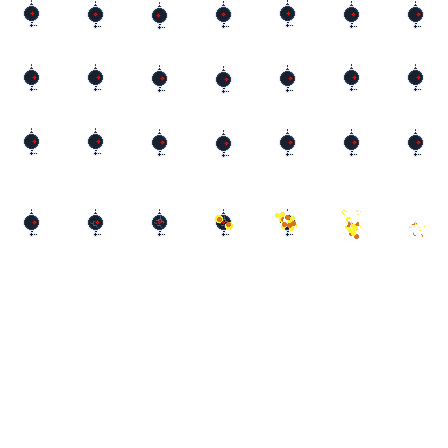
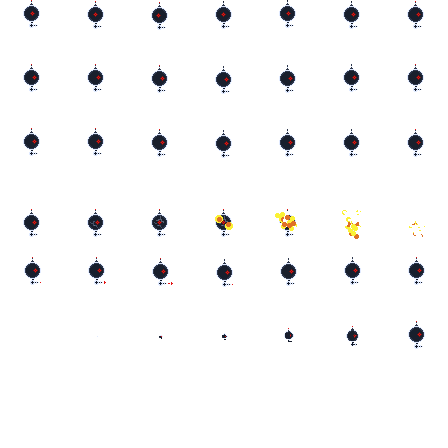
spawnRobot

diff --git a/main.cpp b/main.cpp
@@ -50,6 +50,7 @@ bool fullscreen = false;
 bool move_ufo = false;
 bool canMoveUfo = true;
 bool firstHobo = true;
+bool can_spawn_robots = true;
 bool firstBlood = false;
 bool drawShovel = false;
 bool drawMac10 = true;
@@ -600,6 +601,8 @@ void UpdatePasswordInterface() {
             
         } else {
             enteredPassword = ""; // Reset on incorrect password
+            robots[0].idleTime = 0;
+            //play a sound
         }
     }
 }
@@ -853,6 +856,15 @@ void StartZombieSpawn(int zombie_count){
     nextSpawnDelay = 1.0f + static_cast<float>(rand()) / (static_cast<float>(RAND_MAX / 3.0f));  // Random delay between 1-4 seconds
     //film = true;
     glitch = true; //Activate glitch shader to make things more dramatic
+}
+
+void spawnRobot(GameResources& resources, Player& player, Vector2 position){
+    int speed = 50;
+    NPC robot_npc = CreateNPC(resources.robotSheet, position, speed, RISING, true, false);
+    robot_npc.robot = true;
+    robot_npc.agro = true;
+    robot_npc.SetDestination(player.position.x, player.position.x + 100);
+    robots.push_back(robot_npc);
 }
 
 void spawnZombiePark(GameResources& resources, Vector2 position){
@@ -1752,7 +1764,7 @@ void RenderInventory(const GameResources& resources, std::string inventory[], in
                 if (CheckCollisionPointRec(mousePosition, whiskeyBounds)){
                     if (IsMouseButtonPressed(MOUSE_BUTTON_LEFT)){
                         if (player.hasWhiskey){
-                            inventory[i] = std::string("");  // erase pills from the string
+                            inventory[i] = std::string("");  // erase whiskey from the string
                             player.currentHealth = player.maxHealth;
                             player.hasWhiskey = false;
                             drunk = true;
@@ -1799,7 +1811,7 @@ void RenderInventory(const GameResources& resources, std::string inventory[], in
                 if (CheckCollisionPointRec(mousePosition, shovelBounds)){ //dig
                     
                     if (IsMouseButtonPressed(MOUSE_BUTTON_LEFT)){
-                        Dig(player);
+                        Dig(player); //click shovel icon to dig
                      
                     }
                 }
@@ -1897,6 +1909,7 @@ void MoveTraffic(GameResources resources){
 }
 
 void DrawApartmentUI(GameResources& resources, GameCalendar&, Vector2& mousePosition, Camera2D& camera){
+    //laptop computer interface
     Vector2 ui_pos = {screenWidth/2-100, 440};
     DrawTexture(resources.ComputerScreen, ui_pos.x, ui_pos.y, WHITE);
     Color tint = WHITE;
@@ -3693,9 +3706,10 @@ void RenderNecroTech(GameResources resources, Camera2D camera, Player& player, P
             show_dbox = true;
             dboxPosition = robot.position;
             showPasswordInterface = true;
-
-
-
+        }
+        if (robot.trigger and can_spawn_robots){ //robot rising animation looks dumb and it makes it too hard. save for future use though.
+            can_spawn_robots = false;
+            //spawnRobot(resources,player, robot.position + Vector2 {-100, 0});
         }
     }
 
@@ -3741,7 +3755,7 @@ void RenderNecroTech(GameResources resources, Camera2D camera, Player& player, P
         RenderPasswordInterface();
 
     }else if (passwordValidated && showPasswordInterface && passwordTimer > 0){
-        RenderPasswordInterface();
+        RenderPasswordInterface(); //show interface for a few seconds before not rendering it. 
     }else{
         //don't render nothin
     }

diff --git a/NPC.cpp b/NPC.cpp
@@ -67,6 +67,7 @@ NPC::NPC(Texture2D npcTexture, Vector2 startPos, float npcSpeed, AnimationState 
     can_shoot = true;
     shootTimer = 0.0f;
     validPassword = false;
+    trigger = false;
  
 }
 
@@ -132,7 +133,6 @@ void NPC::HandleNPCInteraction(Player& player, GameState& gameState){ //Click or
             if (interactions == 0 && !validPassword){ //an interaction is a series of sentences said by the NPC, once all the dialog is displayed we increment interactions
             //then wait to trigger the next set of dialogs. 
 
-
                 clickCount += 1;
                 switch (clickCount){
                     case 1:
@@ -150,7 +150,7 @@ void NPC::HandleNPCInteraction(Player& player, GameState& gameState){ //Click or
                             speech = "Terminate Intruder";
                             agro = true;
                             idleTime = 2;
-                            
+                            trigger = true;
                             facingRight = (player.position.x > position.x); //turn toward player
                             break;
 
@@ -488,12 +488,13 @@ void NPC::HandleRobot(Player& player, float& distanceToPlayer){
 
     }
 
-    if (distanceToPlayer < 150 && agro){
+    if (distanceToPlayer < 100 && agro){
         destination = position;
         //shoot
         if (can_shoot && !isDying){
             SoundManager::getInstance().PlayPositionalSound("laser", position, player.position, 500);
             can_shoot = false;
+            SetAnimationState(ATTACKING);
             NPCfireBullet(*this, false, 10, true);
             shootTimer = 1.0f;
 
@@ -605,7 +606,7 @@ void NPC::HandleAnimationLogic(){
 
 void NPC::Update(Player& player, GameState& gameState) {
     if (!isActive) return;  // Skip update if the NPC is not active
-    if (!isZombie) riseTimer = 0;
+    if (!isZombie && !robot) riseTimer = 0;
     float distance_to_player = abs(player.position.x - position.x);
 
     if (distance_to_player >= 30){
@@ -632,9 +633,9 @@ void NPC::Update(Player& player, GameState& gameState) {
             currentFrame++;
 
             // 7 frames in the RISING animation
-            if (currentFrame >= 7) {
-                currentFrame = 0;  // Loop back to the first frame of the rising animation
-            }
+            // if (currentFrame >= 7) {
+            //     currentFrame = 0;  // Loop back to the first frame of the rising animation
+            // } //rising doesn't loop
         }
 
         return;  // Skip further logic until the zombie finishes rising

diff --git a/Player.cpp b/Player.cpp
@@ -795,8 +795,9 @@ void Player::DrawPlayer(const GameResources& resources, GameState& gameState, Ca
         sourceRec.width = -frameWidth;  // Flip the texture if facing left
     }
 
-    if (hitTimer > 0){
+    if (hitTimer > 0){ //tint player when taking damage for hitTimer number of seconds
         hitTimer -= GetFrameTime();
+        //can_take_damage = false? must be done else where 
        
     }else{
         can_take_damage = true;

diff --git a/NPC.h b/NPC.h
@@ -70,6 +70,7 @@ public:
     bool can_shoot;
     float shootTimer;
     bool validPassword;
+    bool trigger;
 
     NPC* targetNPC;
  
